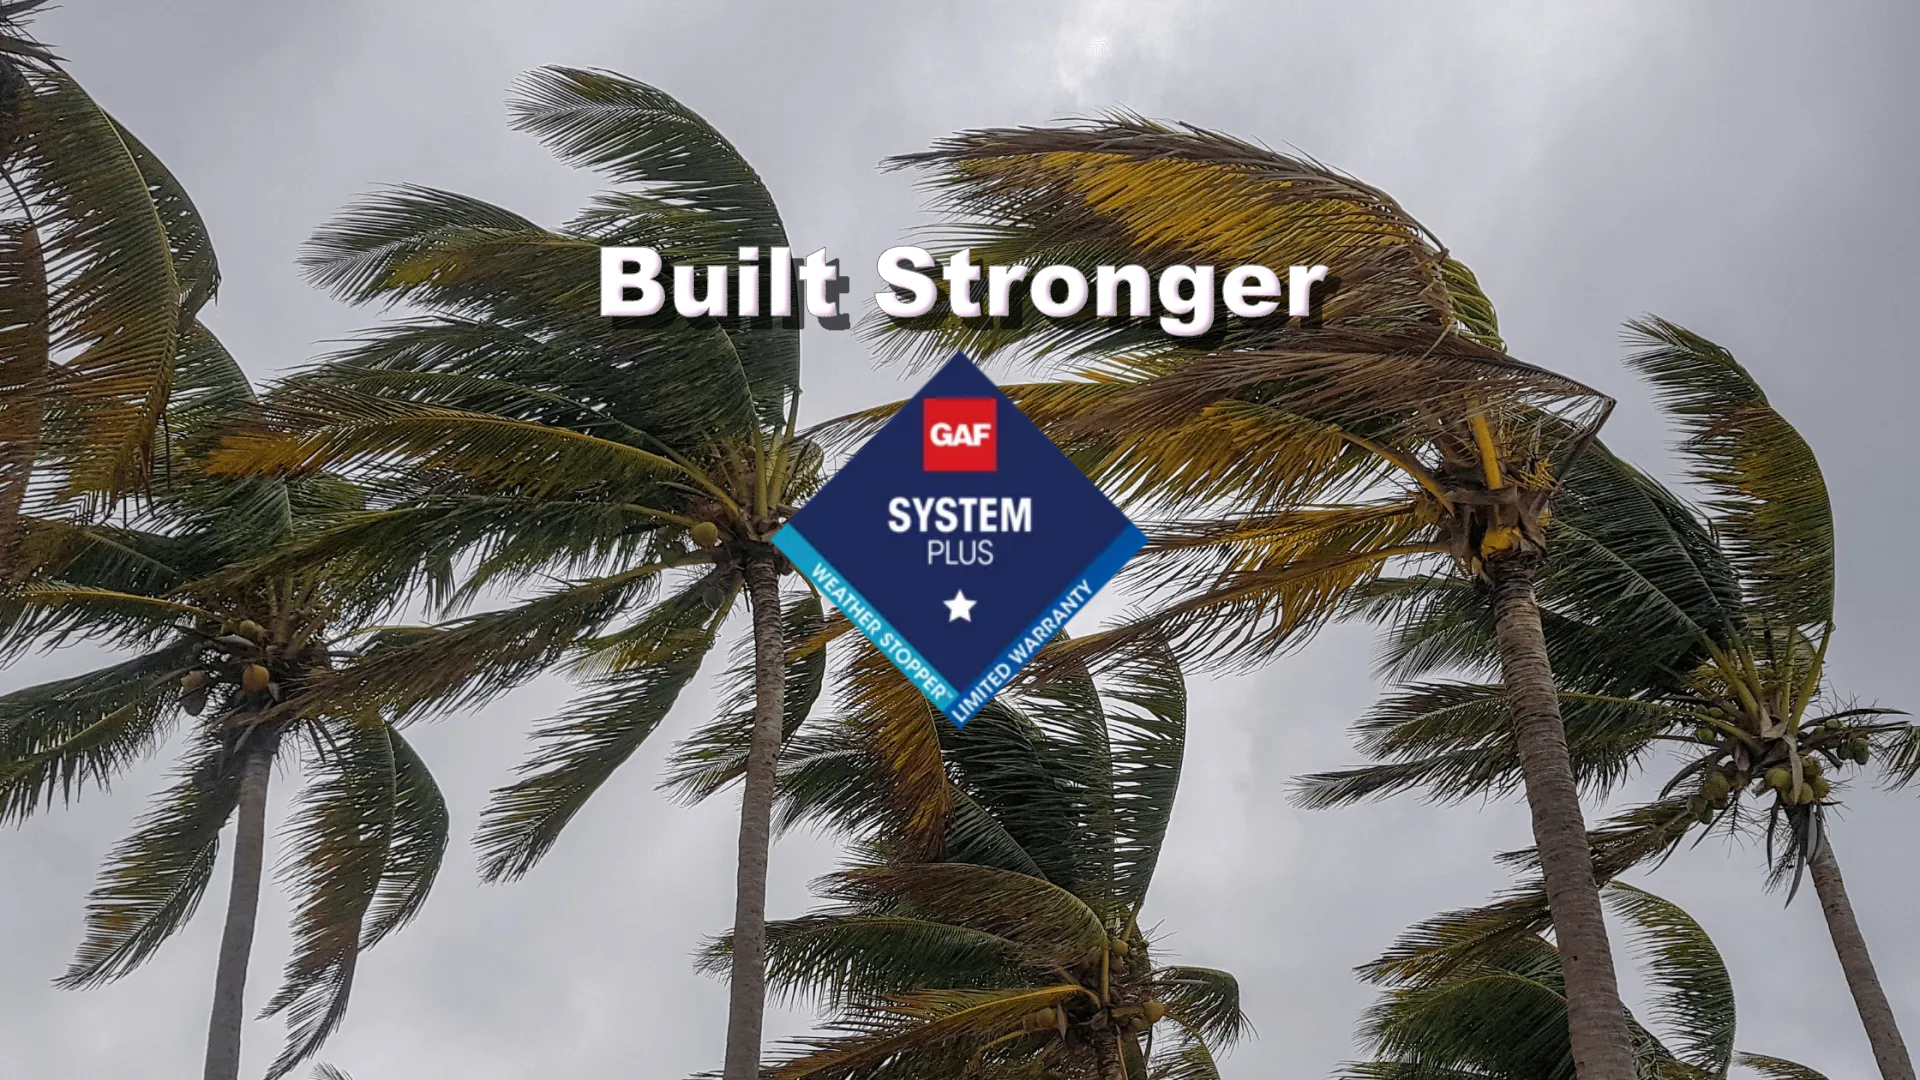
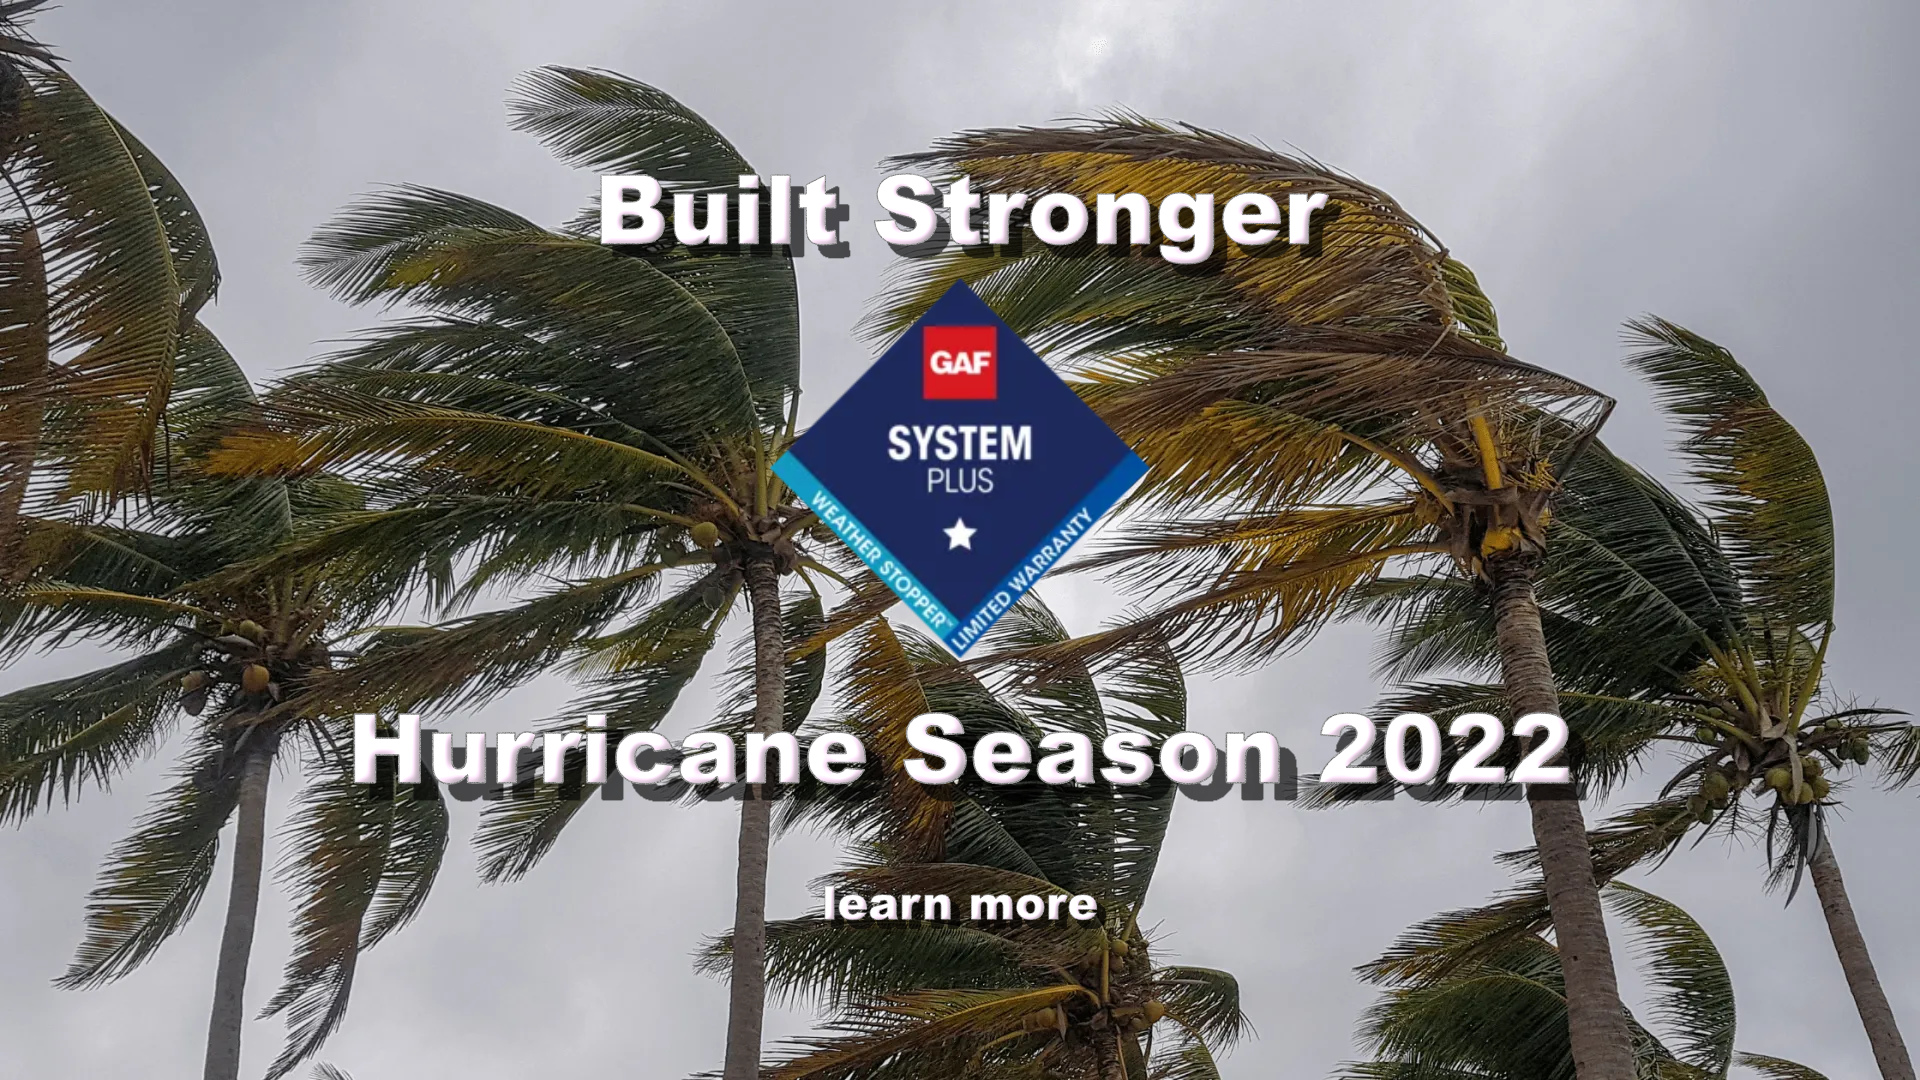
post page video fix

Changed region(s): [[0.1562, 0.1528, 0.8438, 0.7639], [0.4062, 0.825, 0.5938, 0.8556]]

diff --git a/src/templates/blog-post.js b/src/templates/blog-post.js
@@ -623,7 +623,7 @@ const svgUrl = frontmatter.svgImage.publicURL
 
         
 
-{/* <Controls
+<Controls
             ref={controlsRef}
             onSeek={handleSeekChange}
             onSeekMouseDown={handleSeekMouseDown}
@@ -647,7 +647,7 @@ const svgUrl = frontmatter.svgImage.publicURL
             volume={volume}
             onBookmark={addBookmark}
             style={{positon:'absolute', top:'0', zIndex:'900', display:'none'}}
-          /> */}
+          />
 
 
 

diff --git a/src/content/posts/about-vidsocks.md b/src/content/posts/about-vidsocks.md
@@ -1,16 +1,16 @@
 ---
 template: blog-post
-title: What Are VidSocks?
-slug: /whatarevidsocks
+title: Hurricane Season 2022
+slug: /hurricane-prep
 date: 2021-08-14 10:43
 description: Learn More About VidSocks
-youtuber: ""
+youtuber: "https://youtu.be/xsAVn-H5t7M"
 youtuber2: ""
 youtubestart: ""
 youtubeend: ""
-youtubemute: "1"
+youtubemute: ""
 youtubeloop: "1"
-youtubecontrols: "0"
+youtubecontrols: "1"
 audiostart: "0"
 audioend: ""
 youtubeshoworiginal: ""
@@ -29,9 +29,9 @@ youtubeautostart: "1"
 svgImage: /assets/null.svg
 svgzindex: ""
 ---
-<h2 style="font-size:150%">What are VidSocks?</h2>
-VidSocks are layered multimedia (including animation, cutouts, scenes, and video) crafted together to give the viewer a whole new sensory experience.
+<h2 style="font-size:150%">Hurrican Preparedness</h2>
+Getting prepared for a busy season means taking care of your roof today.
 
-Each VidSock is uniquely created by the artist and then delivered to the world for their art to be altered and changed by its viewers thus making each VidSock truly dynamic.
+Lorem Ipsum is simply dummy text of the printing and typesetting industry. Lorem Ipsum has been the industry's standard dummy text ever since the 1500s, when an unknown printer took a galley of type and scrambled it to make a type specimen book. 
 
-With each winning bid, you not only get to take home your new VidSock, but you will also get your very own copy of the VidSock NFT Marketing Platform™ to make and market your own VidSocks.
+It has survived not only five centuries, but also the leap into electronic typesetting, remaining essentially unchanged. It was popularised in the 1960s with the release of Letraset sheets containing Lorem Ipsum passages, and more recently with desktop publishing software like Aldus PageMaker including versions of Lorem Ipsum.
